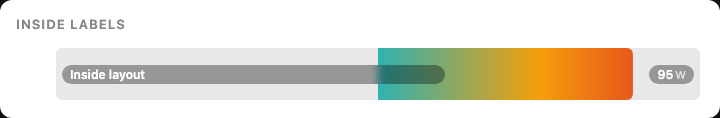
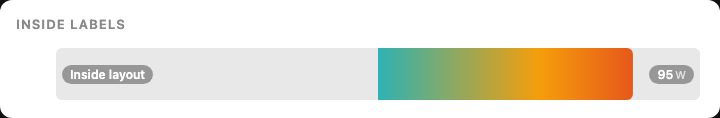
Refine inside label pill sizing

Changed region(s): [[0.1833, 0.5339, 0.6417, 0.7119]]

diff --git a/src/sensor-bar-card-plus.js b/src/sensor-bar-card-plus.js
@@ -1601,14 +1601,16 @@ class SensorBarCard extends HTMLElement {
           text-overflow: ellipsis;
         }
         .bar-inner-label .inside-name {
-          flex: 1 1 auto;
-          max-width: 58%;
+          flex: 0 1 auto;
+          width: fit-content;
+          max-width: 60%;
+          display: inline-block;
         }
         .bar-inner-label[data-inside-density="compact"] .inside-name {
-          max-width: 52%;
+          max-width: 56%;
         }
         .bar-inner-label[data-inside-density="tight"] .inside-name {
-          max-width: 44%;
+          max-width: 48%;
         }
         .bar-inner-label[data-hide-name="true"] .inside-name,
         .bar-inner-label[data-priority-hide-name="true"] .inside-name {